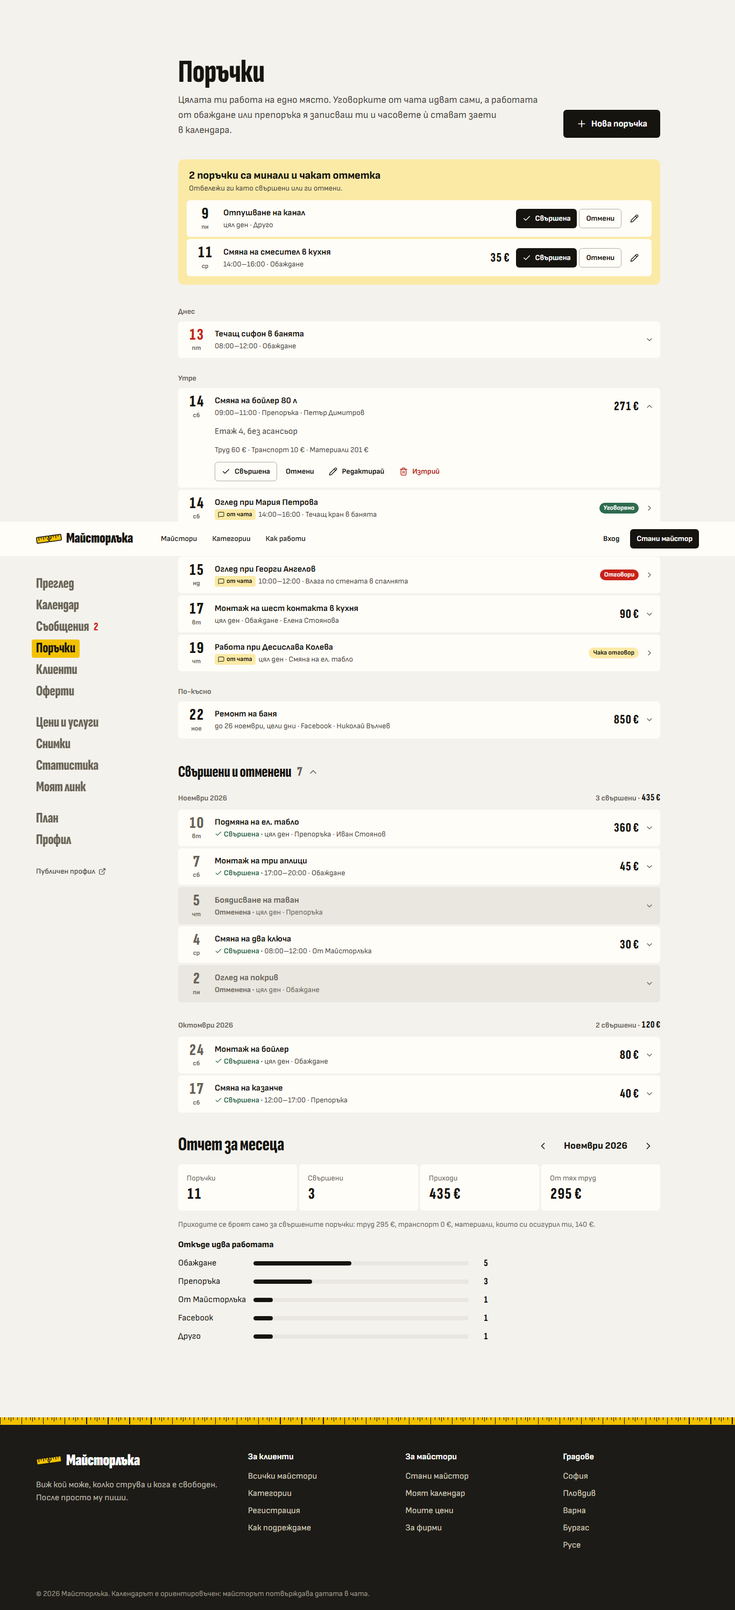
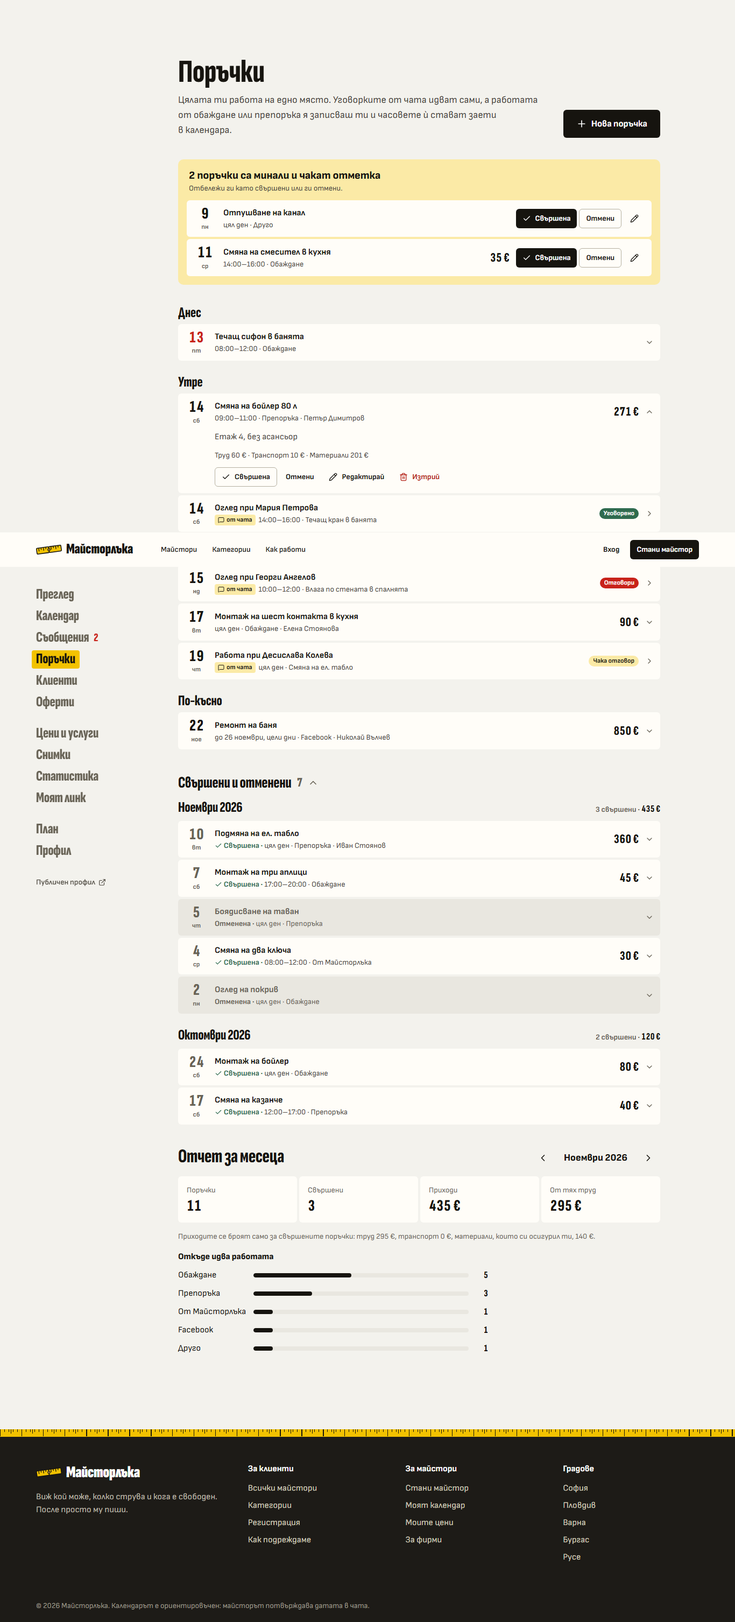
План: правилата без линии за кутия и за име на група, избрани отделно
Кутията е светло поле със жълта лента отгоре, името на група е в сбития
шрифт. Пробата на „Поръчки“ и снимките са обновени; в „Профил“ групите
от градове следват същото правило.

diff --git a/web/src/app/prototypes/tablo-porachki/variant-dni.tsx b/web/src/app/prototypes/tablo-porachki/variant-dni.tsx
@@ -24,18 +24,23 @@ import {
   type Item,
 } from "./shared";
 
-/** Boxes without frames: a light panel on the paper, the quieter part inside it one step darker. */
+/**
+ * Boxes without frames (approved for the whole site): a light panel under a yellow band that carries the title in the condensed face;
+ * the quieter part inside it is one step back, on the paper.
+ */
 const look: Look = {
-  shell: "rounded-[10px] bg-surface",
-  head: "flex items-start justify-between gap-3 px-5 pt-5",
-  title: "text-xl font-extrabold",
+  shell: "overflow-hidden rounded-[10px] bg-surface",
+  head: "flex items-center justify-between gap-3 bg-rule px-5 py-2.5",
+  title: "display text-3xl",
   body: "grid gap-4 p-5",
   panel: "rounded-[8px] bg-paper p-4",
   sum: "flex items-baseline justify-between gap-3 rounded-[6px] bg-surface px-3 py-2.5",
 };
 
+/** A group without a line over it (approved for the whole site): its name in the condensed face, then the rows. */
+const group = "display mb-2 text-[1.7rem]";
+
 const NO_MARKER = "list-none [&::-webkit-details-marker]:hidden";
-const label = "mb-2 text-sm font-bold text-ink-3";
 
 const BUCKETS = ["Днес", "Утре", "До една седмица", "По-късно"] as const;
 const bucket = (iso: string, today: string) => {
@@ -44,8 +49,8 @@ const bucket = (iso: string, today: string) => {
 };
 
 /** „Дни“: the page is read by the day. Every row starts with its date, opens for the rest, and past work folds away. */
-export function VariantDni({ today, pro }: { today: string; pro: boolean }) {
-  const o = useOrders(today, pro);
+export function VariantDni({ today, pro, open = false }: { today: string; pro: boolean; open?: boolean }) {
+  const o = useOrders(today, pro, open);
   const groups = BUCKETS.map((name, i) => ({ name, i, items: o.upcoming.filter((x) => bucket(x.date, today) === i) })).filter((g) => g.items.length > 0);
   const months = byMonth(o.history);
 
@@ -101,7 +106,7 @@ export function VariantDni({ today, pro }: { today: string; pro: boolean }) {
           {groups.length === 0 && <p className="rounded-[6px] bg-surface px-3 py-4 text-ink-2">Няма предстояща работа. Когато някой ти се обади, натисни „Нова поръчка“.</p>}
           {groups.map((g) => (
             <div key={g.name}>
-              <h2 className={label}>{g.name}</h2>
+              <h2 className={group}>{g.name}</h2>
               <ul className="grid gap-1">
                 {g.items.map((x) => (
                   <li key={x.key}>{x.kind === "job" ? <JobRow o={o} j={x.job} date={x.date} under={g.i === 3 ? "month" : "weekday"} /> : <ChatRow x={x} today={today} under={g.i === 3 ? "month" : "weekday"} />}</li>
@@ -121,10 +126,10 @@ export function VariantDni({ today, pro }: { today: string; pro: boolean }) {
             <div className="mt-3 grid gap-7">
               {months.map((m) => (
                 <div key={m.ym}>
-                  <h3 className={`${label} flex items-baseline justify-between gap-3`}>
+                  <h3 className={`${group} flex items-baseline justify-between gap-3`}>
                     <span>{m.label}</span>
                     {m.done > 0 && (
-                      <span>
+                      <span className="font-sans text-sm font-bold tracking-normal text-ink-3">
                         {m.done === 1 ? "1 свършена" : `${m.done} свършени`} · <span className="numerals text-lg text-ink">{formatEur(m.total)}</span>
                       </span>
                     )}

diff --git a/web/src/app/prototypes/tablo-porachki/shared.tsx b/web/src/app/prototypes/tablo-porachki/shared.tsx
@@ -17,10 +17,16 @@ export type Item = { kind: "job"; key: string; date: string; job: Job } | { kind
 
 const later = (a: string, b: string) => (a > b ? a : b);
 
-export function useOrders(today: string, pro: boolean, onSaved?: (job: Job) => void) {
+export function useOrders(today: string, pro: boolean, open = false) {
   const [jobs, setJobs] = useState(() => demoJobs(today));
   const [clients, setClients] = useState(CLIENTS);
-  const [editing, setEditing] = useState<string | "new" | null>(null);
+  const [editing, setEditingRaw] = useState<string | "new" | null>(open ? "new" : null);
+  // A form opened by the address (?forma=1) must not take the focus: the keys 1/2/3 of the picker would type into it.
+  const [quiet, setQuiet] = useState(open);
+  const setEditing = (v: string | "new" | null) => {
+    setQuiet(false);
+    setEditingRaw(v);
+  };
   const bookings = useMemo(() => demoBookings(today), [today]);
 
   const setStatus = (j: Job, status: JobStatus) => {
@@ -43,7 +49,6 @@ export function useOrders(today: string, pro: boolean, onSaved?: (job: Job) => v
     setJobs((all) => (all.some((x) => x.id === job.id) ? all.map((x) => (x.id === job.id ? job : x)) : [...all, job]));
     toast.success(editing === "new" ? "Поръчката е записана и часовете са заети в календара." : "Поръчката е обновена.");
     setEditing(null);
-    onSaved?.(job);
   };
 
   const order = (a: Item, b: Item) => a.date.localeCompare(b.date) || startOf(a).localeCompare(startOf(b));
@@ -57,7 +62,7 @@ export function useOrders(today: string, pro: boolean, onSaved?: (job: Job) => v
   const history = jobs.filter((j) => j.status !== "planned").sort((a, b) => b.start_date.localeCompare(a.start_date));
   const clientName = (j: Job) => clients.find((c) => c.id === j.client_id)?.name;
 
-  return { today, pro, jobs, clients, editing, setEditing, setStatus, remove, save, upcoming, overdue, history, clientName };
+  return { today, pro, jobs, clients, editing, quiet, setEditing, setStatus, remove, save, upcoming, overdue, history, clientName };
 }
 
 export type Orders = ReturnType<typeof useOrders>;
@@ -313,8 +318,11 @@ export function JobForm({ o, look }: { o: Orders; look: Look }) {
     set("materials", form.materials.map((x) => (x.key === key ? { ...x, ...patch } : x)));
 
   useEffect(() => {
+    if (o.quiet) return;
     box.current?.scrollIntoView({ block: "start", behavior: "smooth" });
     box.current?.querySelector<HTMLInputElement>("#j-title")?.focus({ preventScroll: true });
+    // only when the form appears
+    // eslint-disable-next-line react-hooks/exhaustive-deps
   }, []);
 
   const multiDay = form.to !== "" && form.to > form.from;

diff --git a/web/src/app/prototypes/tablo-porachki/page.tsx b/web/src/app/prototypes/tablo-porachki/page.tsx
@@ -6,12 +6,13 @@ import { VariantDni } from "./variant-dni";
 export const metadata: Metadata = { title: "Проба: „Поръчки“", robots: { index: false } };
 
 /**
- * Approved design for „Поръчки“ without thin lines: the „Дни“ variant (docs/plans/2026-11-12-osnova-na-tabloto.md, piece 3).
+ * Approved design for „Поръчки“ without thin lines: the „Дни“ layout, boxes under a yellow band, group names in the condensed face
+ * (docs/plans/2026-11-12-osnova-na-tabloto.md, piece 3).
  * Planning prototype: not reachable in production and deleted by the plan's last task.
- * ?plan=bezplaten shows the page as the free plan sees it (the Pro parts locked).
+ * ?forma=1 opens the form for a new job straight away; ?plan=bezplaten shows the page as the free plan sees it.
  */
-export default async function Page({ searchParams }: { searchParams: Promise<{ plan?: string }> }) {
+export default async function Page({ searchParams }: { searchParams: Promise<{ plan?: string; forma?: string }> }) {
   if (process.env.NODE_ENV === "production") notFound();
   const sp = await searchParams;
-  return <VariantDni today={todayISO()} pro={sp.plan !== "bezplaten"} />;
+  return <VariantDni today={todayISO()} pro={sp.plan !== "bezplaten"} open={sp.forma === "1"} />;
 }

diff --git a/web/src/app/prototypes/tablo-profil/shared.tsx b/web/src/app/prototypes/tablo-profil/shared.tsx
@@ -29,7 +29,7 @@ export const st = {
   /** a tick row inside a fold */
   rowIn: "flex min-h-11 items-center gap-3",
   /** small name above a group of rows */
-  label: "mb-2 text-sm font-bold text-ink-3",
+  label: "display mb-2 text-[1.45rem]",
   /** wrapper of fold-out rows */
   folds: "grid gap-1",
   fold: "group rounded-[6px] bg-surface",

diff --git a/docs/plans/2026-11-12-osnova-na-tabloto.md b/docs/plans/2026-11-12-osnova-na-tabloto.md
@@ -35,6 +35,7 @@ Status: draft 2026-11-13
 - Различните видове линии получават различна замяна, по едно правило за всеки вид (13 ноември 2026 г., „Правило за всеки вид“). Собственикът попита: „Може различни за различните места различен дизайн или нещо?“. Видовете: между редове в списък („Плочки“, одобрено), рамка около кутия, черна линия над списък или под заглавие, черна рамка, таблици, горна лента и футър (светъл фон, видяно в пробата). Правилата се показват в браузъра върху истински страници и се одобряват, преди да се преправи каквото и да е: в този план върху „Поръчки“ (линия над група и под заглавие, рамка на кутия), в план 4 върху публичния профил на майстор (черна рамка, таблица).
 
 - Къде се махат линиите (собственикът го потвърди на 13 ноември 2026 г.: „Да, четвъртият план е накрая“): този план ги маха в частите, които и без това пипа (навигацията, „Профил“, „Поръчки“, вход и регистрация, горната лента и футъра). Планове 2 и 3 правят страниците си направо без линии. Всичко останало (публичните страници, остатъкът от разговорите, админ страниците) е отделен, четвърти план „Без линии из сайта“, който се прави последен и прилага одобрените тук правила. Правилата се записват в `DESIGN.md` в този план.
+- Правилата без линии за име на група и за кутия важат за целия сайт и собственикът ги избра отделно на 13 ноември 2026 г.: име на група в сбития шрифт („Сбит шрифт“) и кутия със жълта лента отгоре („Жълта лента“). Точните стойности са в „Approved designs“, „Поръчки“.
 - Парчето „Правила без линии върху публичния профил на майстор“ излиза от този план и отива в план 4 (собственикът, 13 ноември 2026 г.: „Профилът на майстор отива в друг план“). Тук с варианти остават „Поръчки“ и жълтата кутия.
 
 Решени от планиращия (planner's call):
@@ -56,13 +57,18 @@ Status: draft 2026-11-13
   Screenshots (компютър 1366×850, телефон 390×844; сайтът няма тъмна тема, затова всички са в светлата): `docs/plans/2026-11-12-osnova-na-tabloto-designs/profil-desktop.png` и `profil-phone.png` („Къде работя“ при достигнат лимит, с лентата „Запази“), `profil-desktop-za-men.png`, `profil-desktop-kakvo.png`, `profil-desktop-kontakti.png`, `profil-desktop-danni.png`, `profil-desktop-iztrivane.png` и същите с `profil-phone-`.
   Какво е одобрено, подредба: подменю от думи под „Профил“ в сбития шрифт (1.45rem), избраната с жълто поле, точка до частта с незаписани промени; на екрана е само една част; частите са пет: „За мен“, „Какво работя“, „Къде работя“, „Контакти“ (с писмата на имейла, които се записват веднага), „Моите данни“. В „Къде работя“ градовете са редове с отметки: първо групата на основния град, под „По-далече“ другите групи се отварят една по една; брояч „2 от 3 града с основния“; при лимит бледожълта бележка защо останалите отметки са изключени. Лентата „Запази“ е тъмна, плаваща, с „Отказ“ и „Запази“, показва се само при незаписани промени и на телефон стои над долната лента. „Изтрий профила“ в „Моите данни“ отваря попъп (лист отдолу на телефон) със списък какво се трие, линк за сваляне на данните, поле за ИЗТРИЙ и червен бутон, който е сив, докато думата не е написана. Категориите в „Какво работя“ са редове, които се отварят.
   Какво е одобрено, отделяне: никъде няма разделителни линии. Всеки ред е отделна лента: `bg-surface`, ъгли 6px, 4px между лентите; отметнатият ред е бледожълт (`has-[:checked]:bg-rule-soft`), изключеният от лимита е `bg-surface-2` с текст `ink-3`. Редовете, които се отварят, са същите ленти и съдържанието им се показва вътре в лентата. Списъкът в попъпа е от ленти `bg-paper`. Полетата, чиповете и бутоните пазят рамките си. Горната лента на сайта е `--surface` без долна линия; линията над копирайта във футъра я няма.
+  Промяна на 13 ноември 2026 г.: в „Къде работя“ имената на групите от градове („София и околността“, „По-далече“) вече са в сбития шрифт (`display`, 1.45rem) вместо малък сив надпис, заради правилото за име на група, избрано при „Поръчки“. Собственикът го видя на `?chast=kade` и го одобри („Да, и в „Профил“ така“). Обновени са `st.label` в пробата и снимките `profil-desktop.png` и `profil-phone.png`.
   Бележки за Част 2: точните класове са в обекта `st` в `shared.tsx`; сивият бутон за изтриване иска `disabled:bg-surface-2 disabled:text-ink-3 disabled:opacity-100`, защото глобалното `.btn:disabled` го прави розов; лентата „Запази“ е `z-30` и стои над долната лента (`z-40`) с отстояние, не със слой; в пробата горната лента и футърът са сменени със CSS отвън (`tablo-nav/proto.css`), в продукта се променят самите компоненти; `DESIGN.md` („Hairline-ruled lists“, „a 1.5px ink rule opens important lists“) трябва да се обнови.
 
 - **„Поръчки“**: вариант „Дни“, одобрен на 13 ноември 2026 г. (от три: „Дни“, „Раздели“, „Състояния“).
-  Prototype: `web/src/app/prototypes/tablo-porachki/page.tsx` (с `variant-dni.tsx`, `shared.tsx`, `data.ts`; рамката идва от `tablo-nav/variant-indeks.tsx`). Адрес: `http://localhost:3100/prototypes/tablo-porachki`, `?plan=bezplaten` показва страницата на безплатния план.
+  Prototype: `web/src/app/prototypes/tablo-porachki/page.tsx` (с `variant-dni.tsx`, `shared.tsx`, `data.ts`; рамката идва от `tablo-nav/variant-indeks.tsx`). Адрес: `http://localhost:3100/prototypes/tablo-porachki`, `?plan=bezplaten` показва страницата на безплатния план, `?forma=1` отваря направо формата.
   Screenshots (компютър 1366×850, телефон 390×844, светлата тема, цяла страница): `docs/plans/2026-11-12-osnova-na-tabloto-designs/porachki-desktop.png` и `porachki-phone.png` (както се отваря), `porachki-desktop-otvoren.png` (отворен ред и разгъната история), `porachki-desktop-forma.png` (формата с един ред материали), `porachki-desktop-bezplaten.png` и същите с `porachki-phone-`. В снимките на телефон долната лента излиза по средата на картината: това е от снимането на цяла страница, в браузъра стои долу.
   Какво е одобрено, подредба: страницата се чете по дни. Предстоящото е в групи „Днес“, „Утре“, „До една седмица“, „По-късно“ (празна група не се показва). Всеки ред започва с датата: едра цифра в сбития шрифт с деня от седмицата под нея (в „По-късно“ с месеца), днешната дата е червена. После името на работата, под него часовете, откъде е клиентът и името му; вдясно сумата и стрелка. Редът се отваря и вътре са бележката, разбивката на парите и бутоните „Свършена“, „Отмени“, „Редактирай“, „Изтрий“; отворен е само един ред наведнъж. Уговорка от чата е същият ред, но е линк към разговора: с етикет „от чата“, състояние („Уговорено“ зелено, „Отговори“ червено, „Чака отговор“ бледожълто) и стрелка надясно, без бутони. Миналите, още неотбелязани поръчки са най-горе в бледожълто поле със заглавие „N поръчки са минали и чакат отметка“ и бутони „Свършена“, „Отмени“ и молив направо на реда. „Свършени и отменени“ е сгънато заглавие с брой; разгънато е по месеци, с „N свършени · сума“ вдясно от името на месеца. Свършеният ред има зелено „Свършена“ с отметка и бледа дата; отмененият е на по-тъмна лента с блед текст и думата „Отменена“, без сума; отворени и двата имат „Върни в предстоящи“. Формата за нова поръчка се показва над списъка, на мястото на бутона „Нова поръчка“. Накрая е „Отчет за месеца“.
-  Какво е одобрено, правила без линии: (1) линия над група и под заглавие: няма я; името на групата е малък удебелен надпис в `ink-3` (`text-sm font-bold text-ink-3`, 0.5rem над лентите), а групите се делят с разстояние (1.75rem); големите заглавия („Свършени и отменени“, „Отчет за месеца“) са в сбития шрифт без линия под тях, с 2.5rem между частите на страницата. (2) рамка на кутия: няма я; кутията е светло поле `bg-surface` с ъгли 10px, по-тихата част вътре в нея е една стъпка назад (`bg-paper`, ъгли 8px), а редът със сбор в нея е пак `bg-surface` (6px). Поле, което иска внимание, е `bg-rule-soft` с ъгли 10px и редовете в него са ленти `bg-surface`. (3) редовете са „Плочки“ както в „Профил“: `bg-surface`, ъгли 6px, 4px между тях; отмененият е `bg-surface-2`. Плочките на отчета са `bg-surface` без рамка, по две на ред на телефон и четири на компютър.
+  Какво е одобрено, правила без линии за целия сайт. Собственикът ги избра отделно на 13 ноември 2026 г., всяко от три отговора, показани върху тази страница. (Първият запис ги беше взел от варианта „Дни“, без въпросът да го казва; собственикът поиска да ги огледа пак: „искам да го огледам пак дали така искам да е навсякъде“, и избра друго и за двете.)
+  (1) Име на група над списък: „Сбит шрифт“ (от „Тих надпис“, „Заглавие с брой“, „Сбит шрифт“). Линия няма. Името е в сбития шрифт на заглавията (`display`, 1.7rem, 0.5rem над лентите), а групите се делят с разстояние (1.75rem). Когато групата стои вътре в част със свое заглавие (като „Пътувам и до“ в „Профил“), името ѝ е 1.45rem, за да остане под заглавието. Големите заглавия на части („Свършени и отменени“, „Отчет за месеца“) са в същия шрифт, по-едри (`text-3xl`, `text-4xl`), без линия под тях, с 2.5rem между частите на страницата.
+  (2) Кутия: „Жълта лента“ (от „Светло поле“, „Хлътнало поле“, „Жълта лента“). Рамка няма. Кутията е светло поле `bg-surface` с ъгли 10px (`overflow-hidden`) и жълта лента отгоре (`bg-rule`, `px-5 py-2.5`), в която са заглавието на кутията в сбития шрифт (`display text-3xl`) и бутонът за затваряне. Тихата част вътре в кутията е една стъпка назад (`bg-paper`, ъгли 8px), а редът със сбор в нея е пак `bg-surface` (6px). Кутия без заглавие (бележка за заключена функция) е само тихото поле, без лента. Поле, което иска внимание, е `bg-rule-soft` с ъгли 10px и редовете в него са ленти `bg-surface`.
+  (3) Редовете са „Плочки“ както в „Профил“: `bg-surface`, ъгли 6px, 4px между тях; отмененият е `bg-surface-2`. Плочките на отчета са `bg-surface` без рамка, по две на ред на телефон и четири на компютър.
+  Къде важат (1) и (2): в този план за частите, които той пипа; планове 2 и 3 ги ползват направо; план 4 ги прилага върху останалото. Записват се в `DESIGN.md` в този план.
   Бележки за Част 2: точните класове са в `look` и редовете в `variant-dni.tsx` и в `shared.tsx`. Решения на планиращия, видени от собственика в пробата, но неказани като отделни точки: състоянието на уговорка от чата ползва думите и цветовете на `web/src/components/upcoming-bookings.tsx`; редът с материали във формата е на два реда на телефон (днес не се побира); изтриването пази днешния `window.confirm`. В отчета на пробата липсва „Най-чести работи“ (пропуснато за краткост): в продукта остава, в същия вид без линии. В пробата редът от чата показва тост, в продукта води към `/saobshtenia/<conversation_id>`. Данните в пробата са измислени (`data.ts`); в продукта поръчките идват от `jobs`, а уговорките от RPC `my_bookings`. Бутоните на реда са 36px с мишка и 44px на телефон (`act` в `shared.tsx`).
 
 ## Interface pieces still to approve
